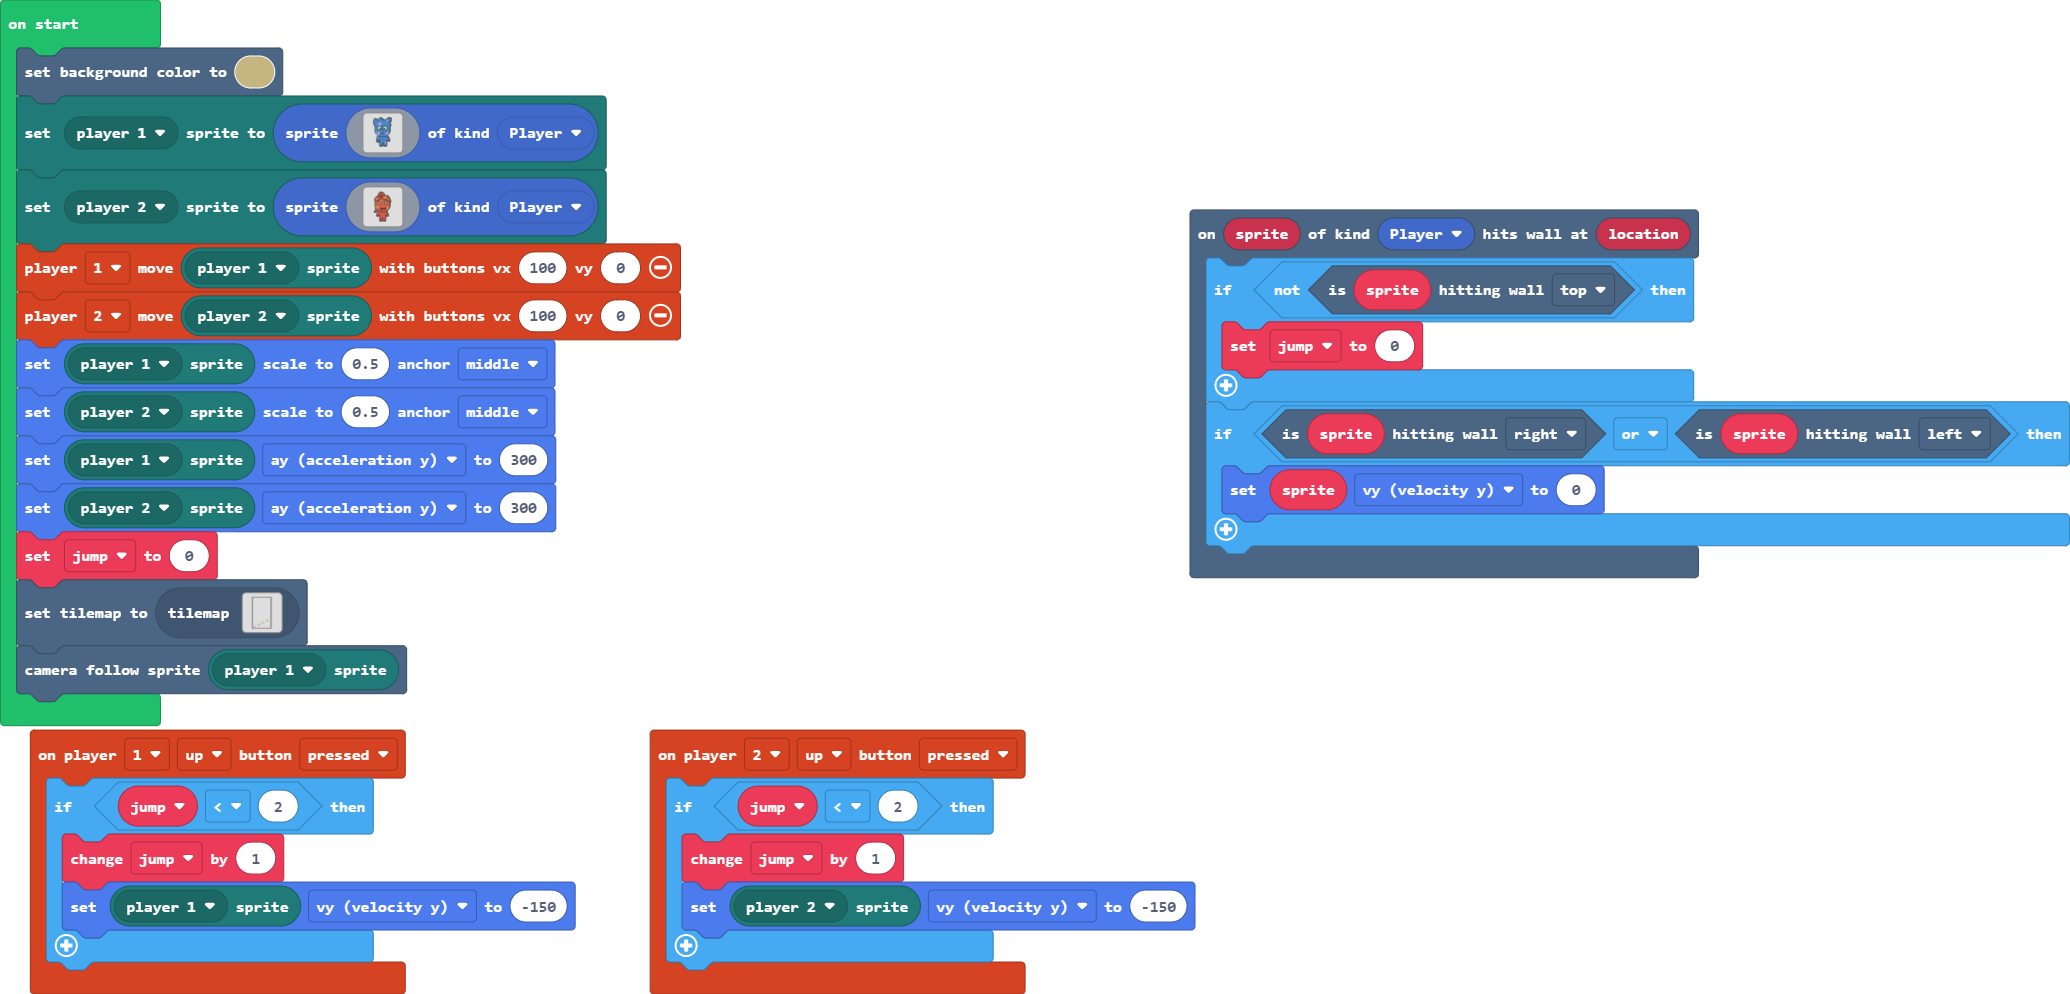
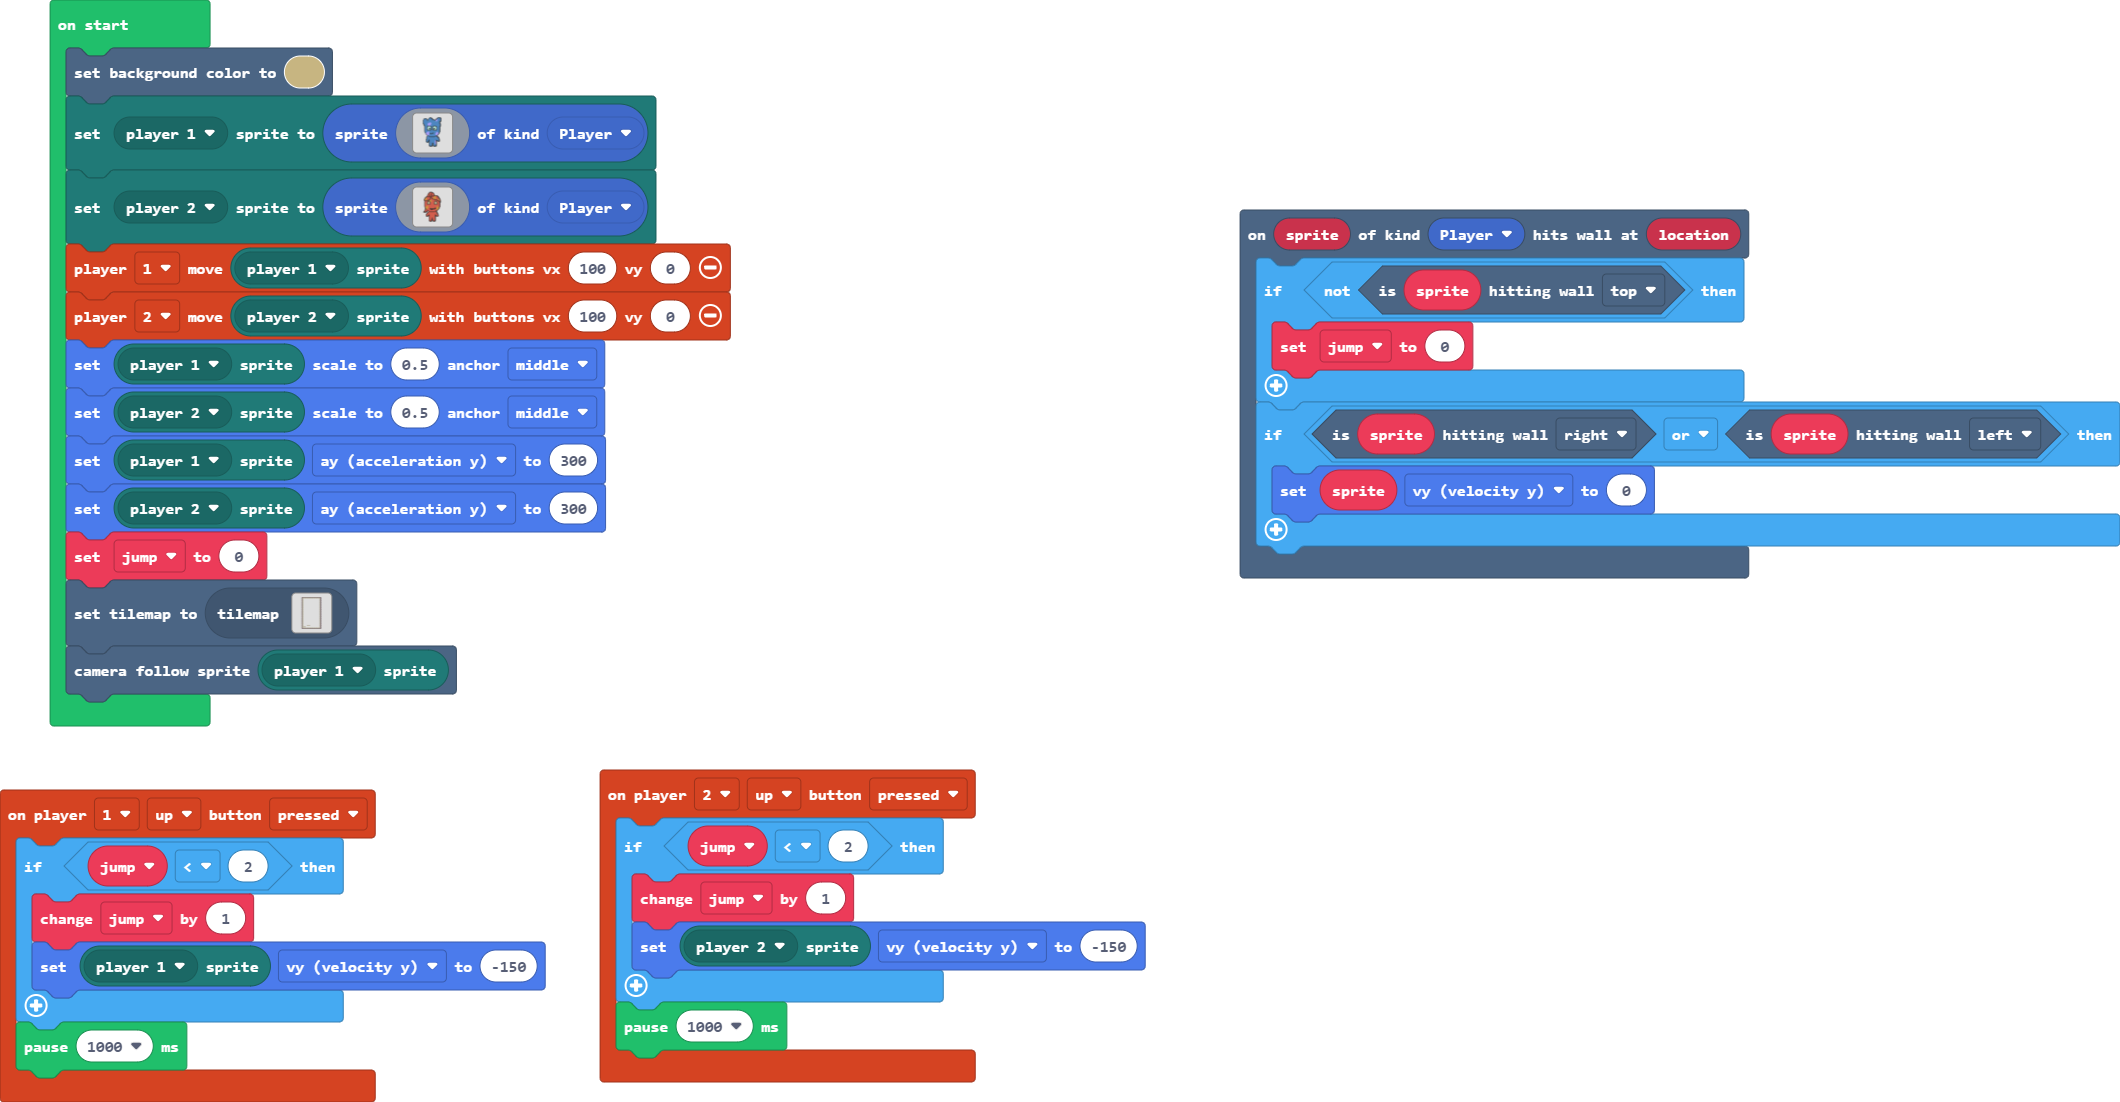
Update main.blocks, main.ts, tilemap.g.jres, tilemap.g.ts

diff --git a/tilemap.g.ts b/tilemap.g.ts
@@ -39,58 +39,58 @@ namespace myTiles {
 ....................
 `, [myTiles.transparency16], TileScale.Sixteen);
             case "level2":
[1 lines of base64/hex data omitted]
-..............................
-..............................
-..............................
-..............................
-..............................
-..............................
-..............................
-..............................
-..............................
-..............................
-..............................
-..............................
-..............................
-..............................
-..............................
-..............................
-..............................
-..............................
-..............................
-..............................
-..............................
-..............................
-..............................
-..............................
-..............................
-..............................
-..............................
-..............................
-..............................
-..............................
-..............................
-..............................
-..............................
-..............................
-..............................
-..............................
-..............................
-.....................22222....
-..............................
-..............................
-..............22222...........
-..............................
-..............................
-........22222.................
-..............................
-..............................
-..2222........................
-..............................
-..............................
-..............................
-`, [myTiles.transparency16,sprites.dungeon.floorDark0,sprites.dungeon.floorLight4], TileScale.Sixteen);
[1 lines of base64/hex data omitted]
+222222222222222222222222222222
+222222222222222222222222222222
+22..........................22
+22..........................22
+22..........................22
+22..........................22
+22..........................22
+22..........................22
+22..........................22
+22..........................22
+22..........................22
+22..........................22
+22..........................22
+22..........................22
+22..........................22
+22..........................22
+22..........................22
+22..........................22
+22..........................22
+22..........................22
+22..........................22
+22..........................22
+22..........................22
+22..........................22
+22..........................22
+22..........................22
+22..........................22
+22..........................22
+22..........................22
+22..........................22
+22..........................22
+22..........................22
+22..........................22
+22..........................22
+22..........................22
+22..........................22
+22..........................22
+22..........................22
+22..........................22
+22..........................22
+22..........................22
+22..........................22
+22..........................22
+22..........................22
+22......22222...............22
+22..........................22
+222222......................22
+22..........................22
+222222222222222222222222222222
+222222222222222222222222222222
+`, [myTiles.transparency16,sprites.dungeon.floorDark0,sprites.dungeon.floorLight4,sprites.dungeon.floorLight0], TileScale.Sixteen);
         }
         return null;
     })

diff --git a/main.ts b/main.ts
@@ -11,12 +11,14 @@ controller.player1.onButtonEvent(ControllerButton.Up, ControllerButtonEvent.Pres
         jump += 1
         mp.getPlayerSprite(mp.playerSelector(mp.PlayerNumber.One)).vy = -150
     }
+    pause(1000)
 })
 controller.player2.onButtonEvent(ControllerButton.Up, ControllerButtonEvent.Pressed, function () {
     if (jump < 2) {
         jump += 1
         mp.getPlayerSprite(mp.playerSelector(mp.PlayerNumber.Two)).vy = -150
     }
+    pause(1000)
 })
 let jump = 0
 scene.setBackgroundColor(13)
